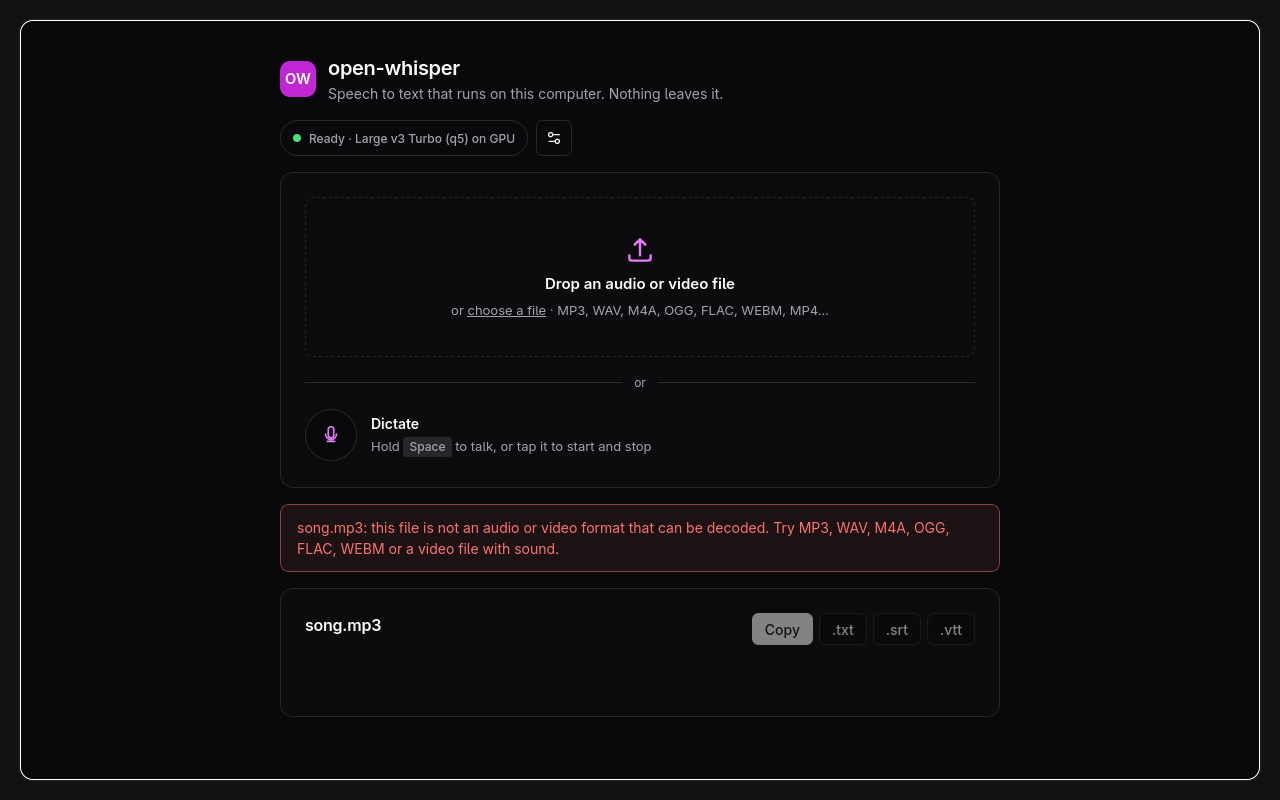
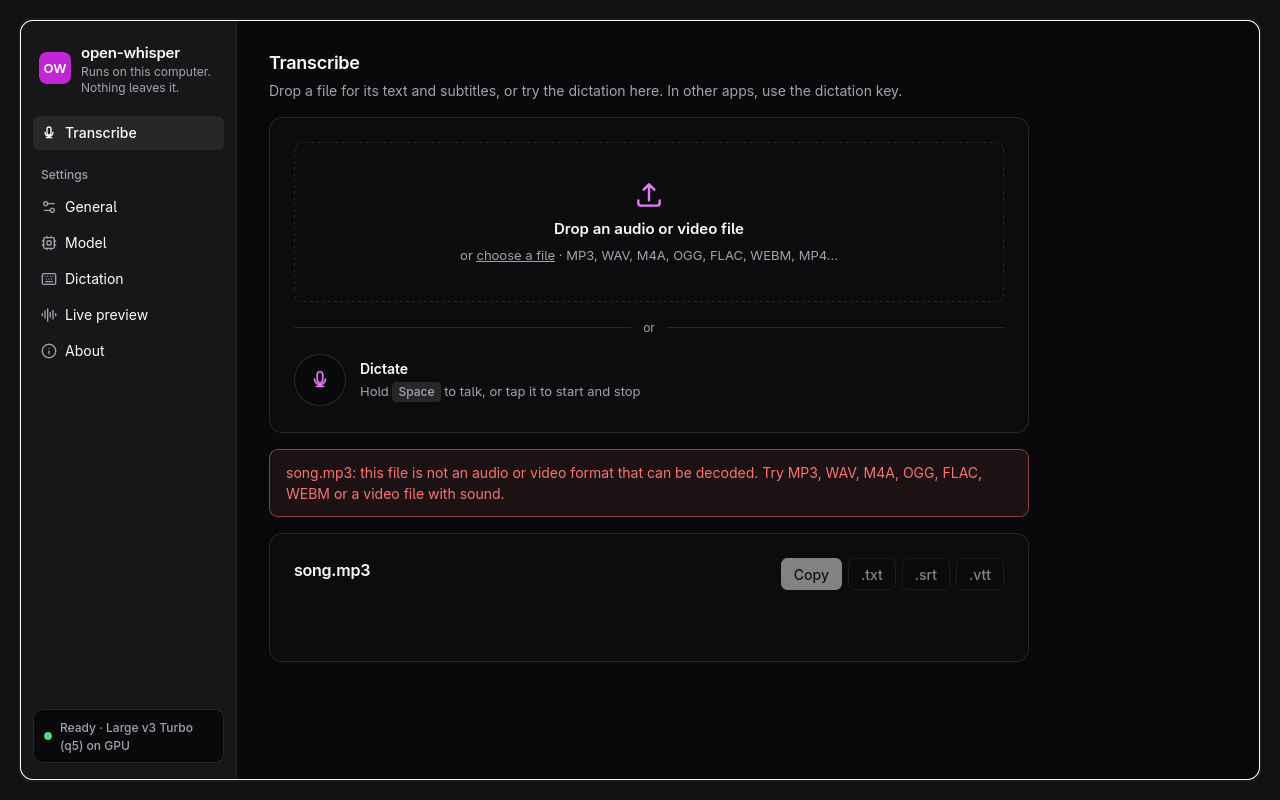
Transcribe becomes the first section of the window
Files, dictation in the window and the result move into a Transcribe section, the first of
the sidebar (the window opens there); the settings sections follow under a Settings label.
The brand sits at the top of the sidebar and the model status at its foot. No separate views
any more: Ctrl+, jumps to General, Esc back to Transcribe. The status line says CPU for
Parakeet (it runs on the CPU even when there is a GPU).

diff --git a/frontend/index.html b/frontend/index.html
@@ -9,87 +9,21 @@
   <body>
     <div id="announcer" class="sr-only" aria-live="polite"></div>
 
-    <!-- ───────────────────────────── main view ───────────────────────────── -->
-    <main id="view-main" class="shell">
-      <header class="top">
-        <div class="brand">
-          <img src="/icon.svg" alt="" width="36" height="36" />
+    <div id="app" class="settings">
+      <aside class="settings-nav">
+        <div class="side-brand">
+          <img src="/icon.svg" alt="" width="32" height="32" />
           <div>
             <h1>open-whisper</h1>
-            <p class="tagline">Speech to text that runs on this computer. Nothing leaves it.</p>
+            <p class="tagline">Runs on this computer. Nothing leaves it.</p>
           </div>
         </div>
-        <div class="top-right">
-          <div id="model-status" class="model-status" aria-live="off">
-            <span class="dot"></span><span id="model-status-text">Starting…</span>
-            <div class="model-bar" hidden><div id="model-bar-fill"></div></div>
-          </div>
-          <button id="settings-open" type="button" class="btn btn-outline btn-icon" aria-label="Settings" title="Settings (Ctrl+,)">
-            <svg class="icon" viewBox="0 0 24 24" aria-hidden="true"><path d="M20 7h-9M14 17H5" /><circle cx="17" cy="17" r="3" /><circle cx="7" cy="7" r="3" /></svg>
+        <nav id="settings-tabs" role="tablist" aria-orientation="vertical" aria-label="Sections">
+          <button type="button" role="tab" class="nav-item" data-section="transcribe" aria-controls="section-transcribe">
+            <svg class="icon" viewBox="0 0 24 24" aria-hidden="true"><path d="M12 15a3 3 0 0 0 3-3V6a3 3 0 1 0-6 0v6a3 3 0 0 0 3 3Zm0 0v4m-4 0h8M6 11a6 6 0 0 0 12 0" /></svg>
+            Transcribe
           </button>
-        </div>
-      </header>
-
-      <section class="card">
-        <div id="dropzone" class="dropzone" role="button" tabindex="0" aria-label="Choose an audio or video file, or drop one here">
-          <svg class="drop-icon" viewBox="0 0 24 24" aria-hidden="true">
-            <path d="M12 16V4m0 0-4 4m4-4 4 4M4 16v2a2 2 0 0 0 2 2h12a2 2 0 0 0 2-2v-2" />
-          </svg>
-          <span class="drop-title">Drop an audio or video file</span>
-          <span class="drop-sub">or <u>choose a file</u> · MP3, WAV, M4A, OGG, FLAC, WEBM, MP4…</span>
-        </div>
-
-        <div class="divider"><span>or</span></div>
-
-        <div id="dictation" class="dictation" data-state="idle">
-          <button id="mic-button" class="mic" type="button" aria-label="Start dictation">
-            <svg viewBox="0 0 24 24" aria-hidden="true">
-              <path d="M12 15a3 3 0 0 0 3-3V6a3 3 0 1 0-6 0v6a3 3 0 0 0 3 3Zm0 0v4m-4 0h8M6 11a6 6 0 0 0 12 0" />
-            </svg>
-          </button>
-          <div class="dictation-body">
-            <canvas id="waveform" class="waveform" height="56" aria-hidden="true"></canvas>
-            <div class="dictation-text">
-              <span id="dictation-label" class="dictation-label" aria-live="polite">Dictate</span>
-              <span id="dictation-hint" class="dictation-hint">Hold <kbd>Space</kbd> to talk, or tap it to start and stop</span>
-            </div>
-            <span id="dictation-timer" class="timer" hidden>0:00</span>
-          </div>
-        </div>
-      </section>
-
-      <div id="error" class="error" role="alert" hidden></div>
-
-      <section id="result" class="card result" hidden>
-        <div class="result-head">
-          <div>
-            <h2 id="result-title">Transcript</h2>
-            <p id="result-meta" class="meta"></p>
-          </div>
-          <div class="actions">
-            <button id="copy-button" type="button" class="btn btn-default btn-sm" disabled>Copy</button>
-            <button data-format="txt" type="button" class="btn btn-outline btn-sm download" disabled>.txt</button>
-            <button data-format="srt" type="button" class="btn btn-outline btn-sm download" disabled>.srt</button>
-            <button data-format="vtt" type="button" class="btn btn-outline btn-sm download" disabled>.vtt</button>
-          </div>
-        </div>
-        <div id="progress" class="progress" hidden>
-          <div class="progress-track"><div id="progress-fill" class="progress-fill"></div></div>
-          <span id="progress-text" class="progress-text"></span>
-        </div>
-        <div id="transcript" class="transcript"></div>
-      </section>
-    </main>
-
-    <!-- ─────────────────────────── settings view ─────────────────────────── -->
-    <div id="view-settings" class="settings" hidden>
-      <aside class="settings-nav">
-        <button id="settings-back" type="button" class="btn btn-ghost btn-sm back">
-          <svg class="icon" viewBox="0 0 24 24" aria-hidden="true"><path d="m12 19-7-7 7-7M19 12H5" /></svg>
-          Back
-        </button>
-        <h2 class="settings-title">Settings</h2>
-        <nav id="settings-tabs" role="tablist" aria-orientation="vertical" aria-label="Settings sections">
+          <div class="settings-title" role="presentation">Settings</div>
           <button type="button" role="tab" class="nav-item" data-section="general" aria-controls="section-general">
             <svg class="icon" viewBox="0 0 24 24" aria-hidden="true"><path d="M20 7h-9M14 17H5" /><circle cx="17" cy="17" r="3" /><circle cx="7" cy="7" r="3" /></svg>
             General
@@ -111,11 +45,74 @@
             About
           </button>
         </nav>
+        <div class="side-foot">
+          <div id="model-status" class="model-status" aria-live="off">
+            <span class="dot"></span><span id="model-status-text">Starting…</span>
+            <div class="model-bar" hidden><div id="model-bar-fill"></div></div>
+          </div>
+        </div>
       </aside>
 
       <div class="settings-content">
+        <!-- Transcribe: files, dictation in this window, the result -->
+        <section id="section-transcribe" class="section section-wide" role="tabpanel" data-section="transcribe">
+          <header class="section-head">
+            <h3>Transcribe</h3>
+            <p>Drop a file for its text and subtitles, or try the dictation here. In other apps, use the dictation key.</p>
+          </header>
+          <section class="card">
+            <div id="dropzone" class="dropzone" role="button" tabindex="0" aria-label="Choose an audio or video file, or drop one here">
+              <svg class="drop-icon" viewBox="0 0 24 24" aria-hidden="true">
+                <path d="M12 16V4m0 0-4 4m4-4 4 4M4 16v2a2 2 0 0 0 2 2h12a2 2 0 0 0 2-2v-2" />
+              </svg>
+              <span class="drop-title">Drop an audio or video file</span>
+              <span class="drop-sub">or <u>choose a file</u> · MP3, WAV, M4A, OGG, FLAC, WEBM, MP4…</span>
+            </div>
+
+            <div class="divider"><span>or</span></div>
+
+            <div id="dictation" class="dictation" data-state="idle">
+              <button id="mic-button" class="mic" type="button" aria-label="Start dictation">
+                <svg viewBox="0 0 24 24" aria-hidden="true">
+                  <path d="M12 15a3 3 0 0 0 3-3V6a3 3 0 1 0-6 0v6a3 3 0 0 0 3 3Zm0 0v4m-4 0h8M6 11a6 6 0 0 0 12 0" />
+                </svg>
+              </button>
+              <div class="dictation-body">
+                <canvas id="waveform" class="waveform" height="56" aria-hidden="true"></canvas>
+                <div class="dictation-text">
+                  <span id="dictation-label" class="dictation-label" aria-live="polite">Dictate</span>
+                  <span id="dictation-hint" class="dictation-hint">Hold <kbd>Space</kbd> to talk, or tap it to start and stop</span>
+                </div>
+                <span id="dictation-timer" class="timer" hidden>0:00</span>
+              </div>
+            </div>
+          </section>
+
+          <div id="error" class="error" role="alert" hidden></div>
+
+          <section id="result" class="card result" hidden>
+            <div class="result-head">
+              <div>
+                <h2 id="result-title">Transcript</h2>
+                <p id="result-meta" class="meta"></p>
+              </div>
+              <div class="actions">
+                <button id="copy-button" type="button" class="btn btn-default btn-sm" disabled>Copy</button>
+                <button data-format="txt" type="button" class="btn btn-outline btn-sm download" disabled>.txt</button>
+                <button data-format="srt" type="button" class="btn btn-outline btn-sm download" disabled>.srt</button>
+                <button data-format="vtt" type="button" class="btn btn-outline btn-sm download" disabled>.vtt</button>
+              </div>
+            </div>
+            <div id="progress" class="progress" hidden>
+              <div class="progress-track"><div id="progress-fill" class="progress-fill"></div></div>
+              <span id="progress-text" class="progress-text"></span>
+            </div>
+            <div id="transcript" class="transcript"></div>
+          </section>
+        </section>
+
         <!-- General -->
-        <section id="section-general" class="section" role="tabpanel" data-section="general">
+        <section id="section-general" class="section" role="tabpanel" data-section="general" hidden>
           <header class="section-head">
             <h3>General</h3>
             <p>How open-whisper understands what you say.</p>

diff --git a/frontend/src/style.css b/frontend/src/style.css
@@ -113,14 +113,9 @@ kbd {
 }
 
 /* ───────────────────────────── main view ───────────────────────────── */
-.shell { max-width: 760px; margin: 0 auto; padding: 32px 20px; display: flex; flex-direction: column; gap: 16px; }
 
-.top { display: flex; justify-content: space-between; align-items: center; gap: 16px; flex-wrap: wrap; }
-.brand { display: flex; gap: 12px; align-items: center; }
-.brand img { border-radius: 10px; }
 h1 { font-size: 20px; font-weight: 600; }
 .tagline { margin: 0; color: var(--muted-foreground); }
-.top-right { display: flex; align-items: center; gap: 8px; }
 
 .model-status {
   display: grid; grid-template-columns: auto 1fr; align-items: center; column-gap: 8px; row-gap: 6px;
@@ -188,13 +183,18 @@ h1 { font-size: 20px; font-weight: 600; }
 .transcript.empty { color: var(--muted-foreground); }
 
 /* ───────────────────────────── settings view ───────────────────────────── */
-.settings { display: grid; grid-template-columns: 200px 1fr; min-height: 100vh; }
+.settings { display: grid; grid-template-columns: 216px 1fr; height: 100vh; }
 .settings-nav {
-  border-right: 1px solid var(--border); background: color-mix(in srgb, var(--muted) 45%, var(--background));
+  overflow-y: auto; border-right: 1px solid var(--border); background: color-mix(in srgb, var(--muted) 45%, var(--background));
   padding: 16px 12px; display: flex; flex-direction: column; gap: 4px;
 }
-.settings-nav .back { align-self: flex-start; margin-bottom: 8px; color: var(--muted-foreground); }
-.settings-title { font-size: 13px; font-weight: 500; color: var(--muted-foreground); padding: 4px 8px; }
+.side-brand { display: flex; align-items: center; gap: 10px; padding: 4px 6px 16px; }
+.side-brand img { border-radius: 8px; }
+.side-brand h1 { font-size: 15px; font-weight: 600; }
+.side-brand .tagline { font-size: 12px; line-height: 1.35; }
+.settings-title { font-size: 12px; font-weight: 500; color: var(--muted-foreground); padding: 14px 8px 4px; }
+.side-foot { margin-top: auto; padding-top: 16px; }
+.side-foot .model-status { width: 100%; border-radius: var(--radius); height: auto; min-height: 36px; padding: 8px 10px; }
 #settings-tabs { display: flex; flex-direction: column; gap: 2px; }
 .nav-item {
   display: flex; align-items: center; gap: 8px; height: 34px; padding: 0 8px; border: 0; border-radius: calc(var(--radius) - 2px);
@@ -207,6 +207,7 @@ h1 { font-size: 20px; font-weight: 600; }
 
 .settings-content { padding: 28px 32px; overflow-y: auto; }
 .section { max-width: 640px; display: flex; flex-direction: column; gap: 20px; }
+.section-wide { max-width: 760px; gap: 16px; }
 .section-head h3 { font-size: 18px; font-weight: 600; }
 .section-head p { margin: 4px 0 0; color: var(--muted-foreground); }
 
@@ -240,7 +241,9 @@ h1 { font-size: 20px; font-weight: 600; }
 
 /* Narrow windows: the section list goes on top, as a row of tabs. */
 @media (max-width: 560px) {
-  .settings { grid-template-columns: 1fr; grid-template-rows: auto 1fr; }
+  .settings { grid-template-columns: 1fr; grid-template-rows: auto 1fr; height: auto; min-height: 100vh; }
+  .side-brand .tagline, .settings-title { display: none; }
+  .side-foot { margin-top: 8px; padding-top: 0; }
   .settings-nav { border-right: 0; border-bottom: 1px solid var(--border); }
   #settings-tabs { flex-direction: row; flex-wrap: wrap; }
   .settings-content { padding: 24px 20px; }

diff --git a/frontend/src/main.ts b/frontend/src/main.ts
@@ -91,7 +91,8 @@ function modelPhrase(m: ModelInfo): string {
       return "Loading model…";
     case "ready":
     case "downloaded": // on disk, loads on first use
-      return `Ready · ${m.label.split(" · ")[0]} on ${status?.gpu || status?.device === "cuda" ? "GPU" : "CPU"}`;
+      // Parakeet runs on the CPU even when there is a GPU.
+      return `Ready · ${m.label.split(" · ")[0]} on ${status?.gpu && m.engine !== "parakeet" ? "GPU" : "CPU"}`;
     case "error":
       return m.error ?? "Model error";
     default:
@@ -668,19 +669,19 @@ window.addEventListener("blur", () => {
 // Space is handled globally (and its default "click" is suppressed), so only real clicks/Enter land here.
 micButton.addEventListener("click", toggleDictation);
 
-// ------------------------------------------------------------------ settings view
-const viewMain = $<HTMLElement>("view-main");
-const viewSettings = $<HTMLElement>("view-settings");
-const settingsOpen = $<HTMLButtonElement>("settings-open");
+// ------------------------------------------------------------------ sections
+// One window: Transcribe (files, dictation here, the result) and the settings sections.
 const tabs = [...document.querySelectorAll<HTMLButtonElement>("#settings-tabs .nav-item")];
-let section = "general";
+let section = "transcribe";
 
+/** In a settings section (not Transcribe): Space works the controls, it does not dictate. */
 function inSettings(): boolean {
-  return !viewSettings.hidden;
+  return section !== "transcribe";
 }
 
 function showSection(name: string, focus = false): void {
   if (capturing) stopCapture();
+  if (name !== "transcribe" && dictation.state !== "idle") return; // finish the dictation first
   section = name;
   for (const t of tabs) {
     const on = t.dataset.section === name;
@@ -690,23 +691,8 @@ function showSection(name: string, focus = false): void {
   }
   for (const p of document.querySelectorAll<HTMLElement>(".settings-content .section")) p.hidden = p.dataset.section !== name;
 }
+showSection("transcribe");
 
-function openSettings(name = section): void {
-  if (dictation.state !== "idle") return;
-  viewMain.hidden = true;
-  viewSettings.hidden = false;
-  showSection(name, true);
-}
-
-function closeSettings(): void {
-  if (capturing) stopCapture();
-  viewSettings.hidden = true;
-  viewMain.hidden = false;
-  settingsOpen.focus();
-}
-
-settingsOpen.addEventListener("click", () => openSettings());
-$<HTMLButtonElement>("settings-back").addEventListener("click", closeSettings);
 for (const t of tabs) t.addEventListener("click", () => showSection(t.dataset.section!));
 $<HTMLElement>("settings-tabs").addEventListener("keydown", (e) => {
   const i = tabs.findIndex((t) => t.dataset.section === section);
@@ -718,11 +704,10 @@ $<HTMLElement>("settings-tabs").addEventListener("keydown", (e) => {
 document.addEventListener("keydown", (e) => {
   if (e.key === "," && e.ctrlKey && !e.altKey && !e.metaKey) {
     e.preventDefault();
-    if (inSettings()) closeSettings();
-    else openSettings();
+    showSection(inSettings() ? "transcribe" : "general", true);
   } else if (e.key === "Escape" && inSettings() && !capturing && dictation.state === "idle") {
     e.preventDefault();
-    closeSettings();
+    showSection("transcribe", true);
   }
 });
 

diff --git a/README.md b/README.md
@@ -41,9 +41,10 @@ make desktop-bundle      # AppImage / .deb / .rpm in desktop/src-tauri/target/re
   <kbd>Esc</kbd> cancels. A live waveform shows that the app is listening.
 - **Result:** the text appears while it is transcribed. **Copy** puts it on the clipboard.
   **.txt**, **.srt** and **.vtt** save the transcript or subtitles.
-- **Settings** (the ⚙ button or <kbd>Ctrl</kbd>+<kbd>,</kbd>; never required): sections on the left —
-  General (language), Model (model, free memory when idle), Dictation (the key, start at login),
-  Live preview (on/off, engine), About.
+- **The window** has sections on the left: **Transcribe** (files, dictation in the window, the
+  result; it opens there) and the settings — General (language), Model (model, free memory when
+  idle), Dictation (the key, start at login), Live preview (on/off, engine), About.
+  <kbd>Ctrl</kbd>+<kbd>,</kbd> jumps to the settings, <kbd>Esc</kbd> back to Transcribe.
 - Files given on the command line open in the app. **Closing the window keeps the app
   running** in the tray, so the dictation key stays instant. Quit from the tray or with
   `open-whisper --dictate quit`.
